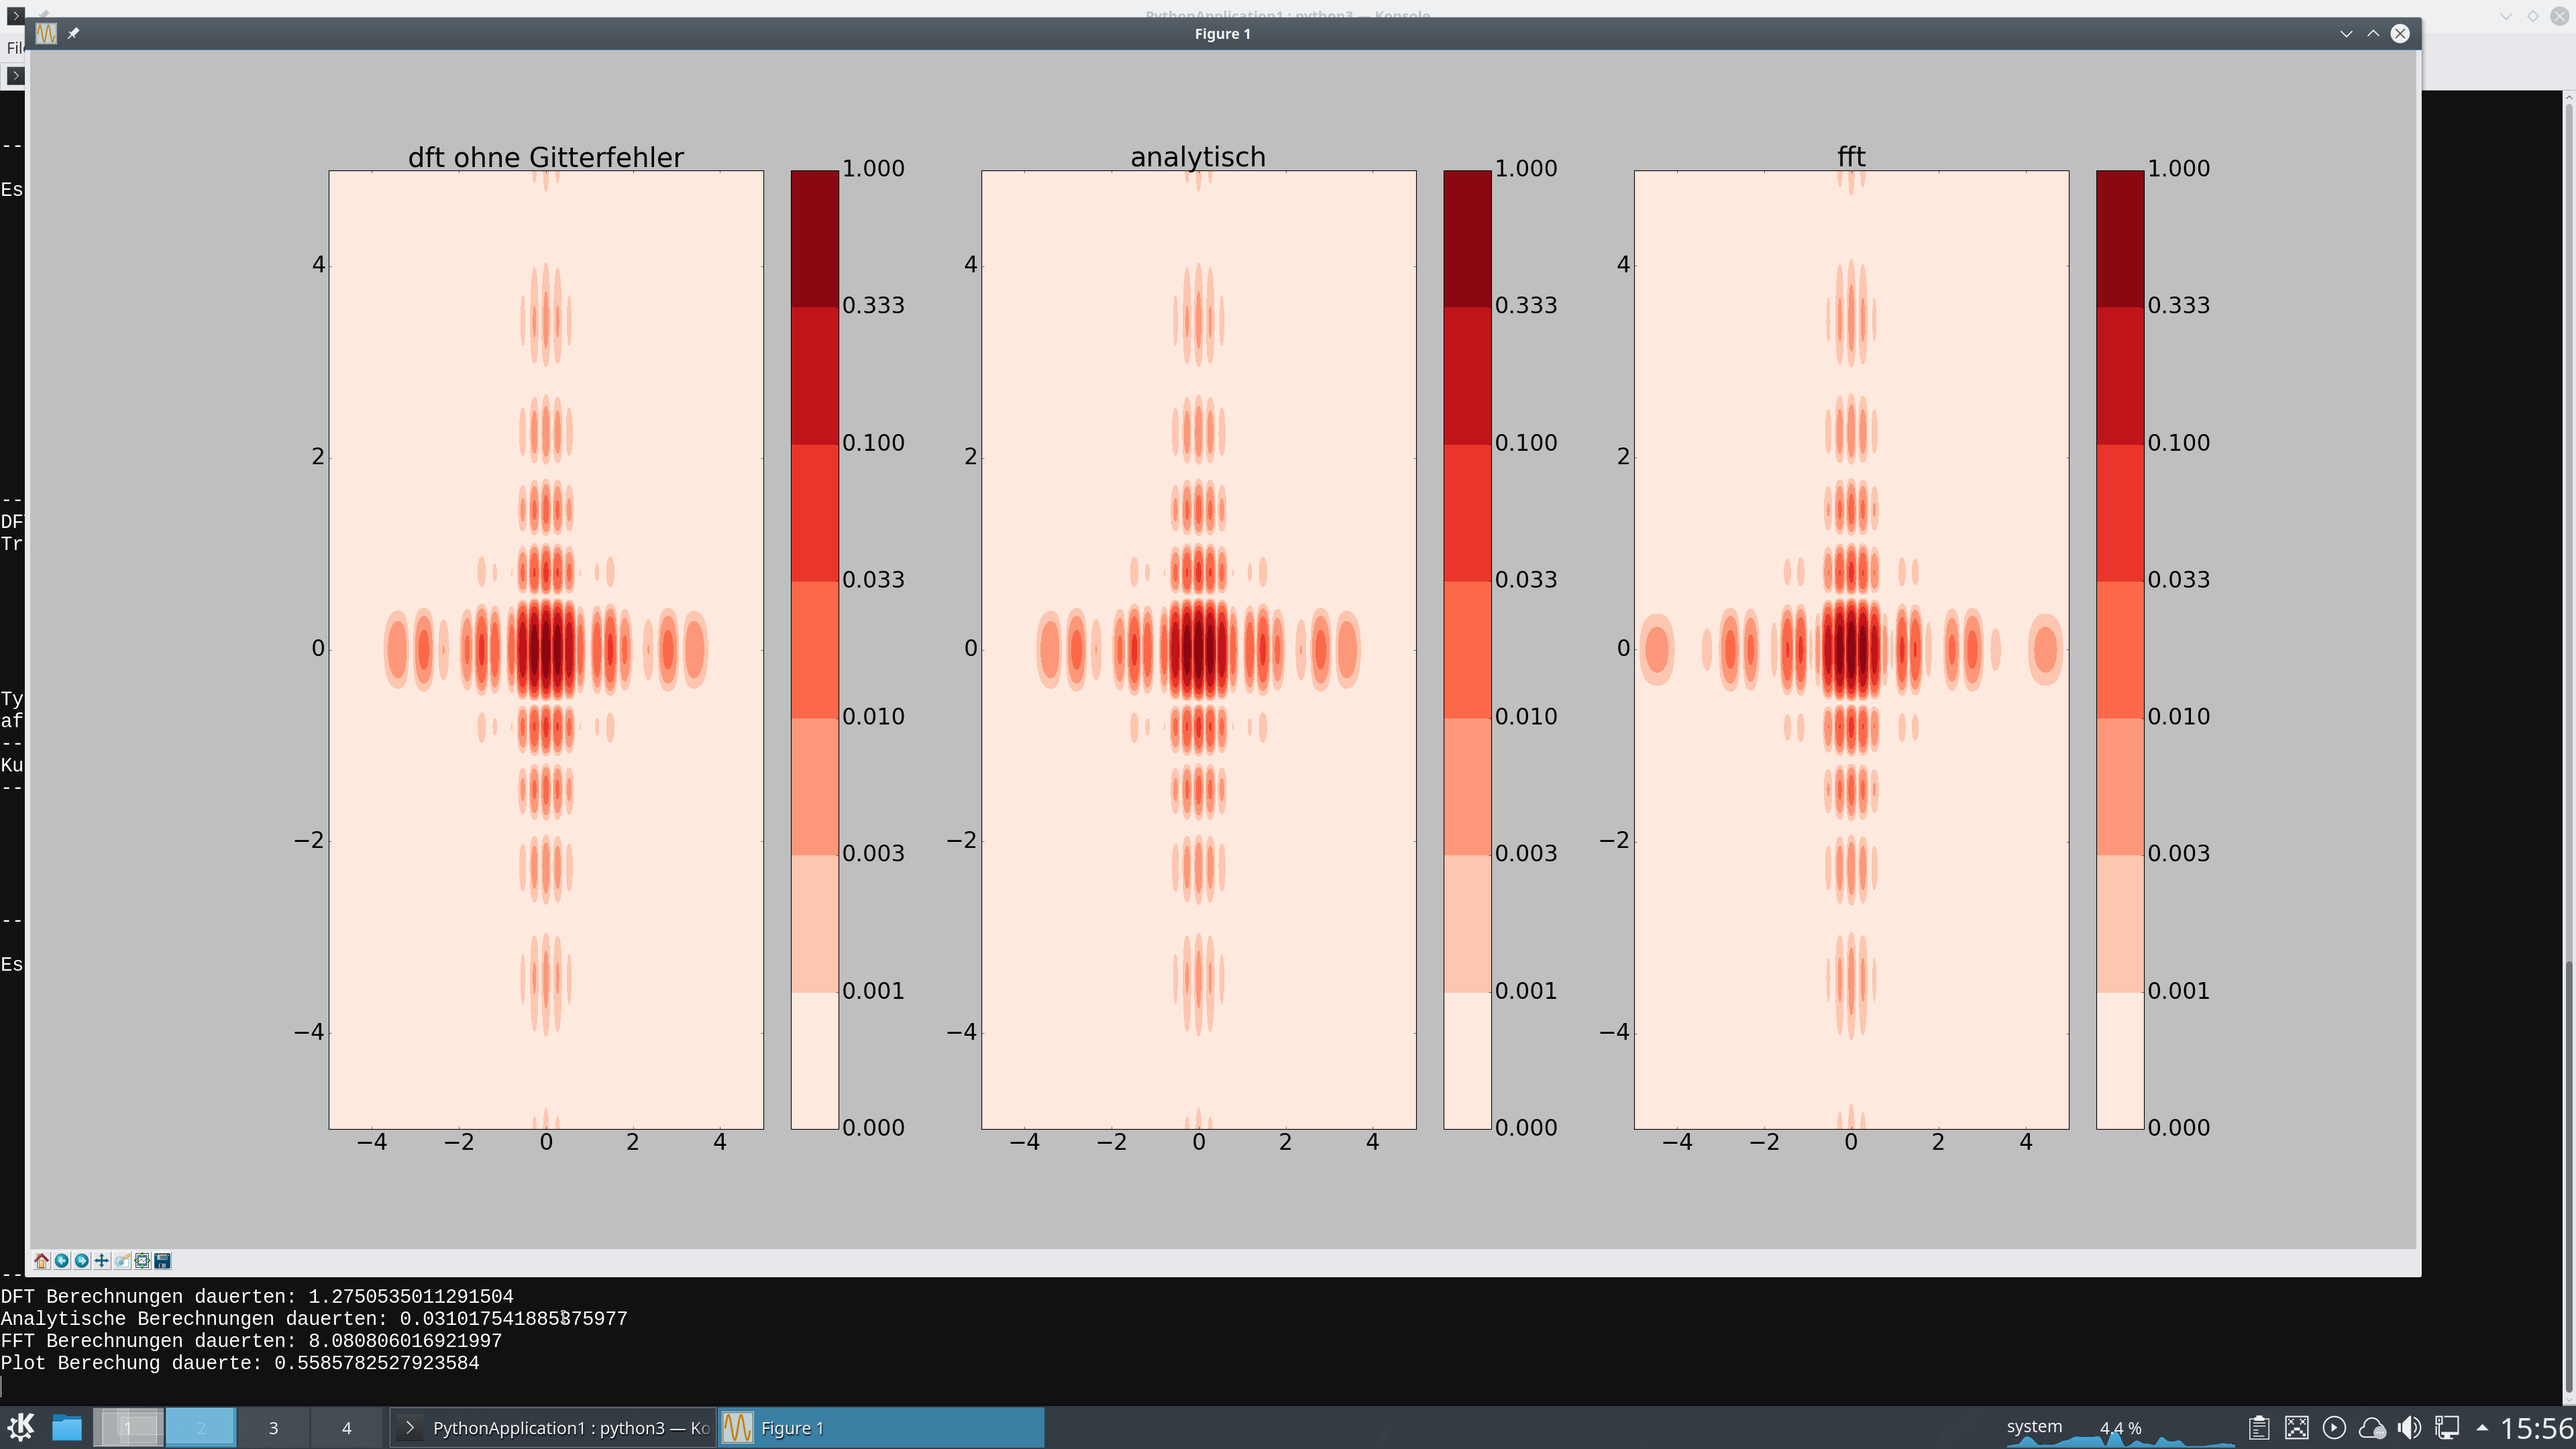
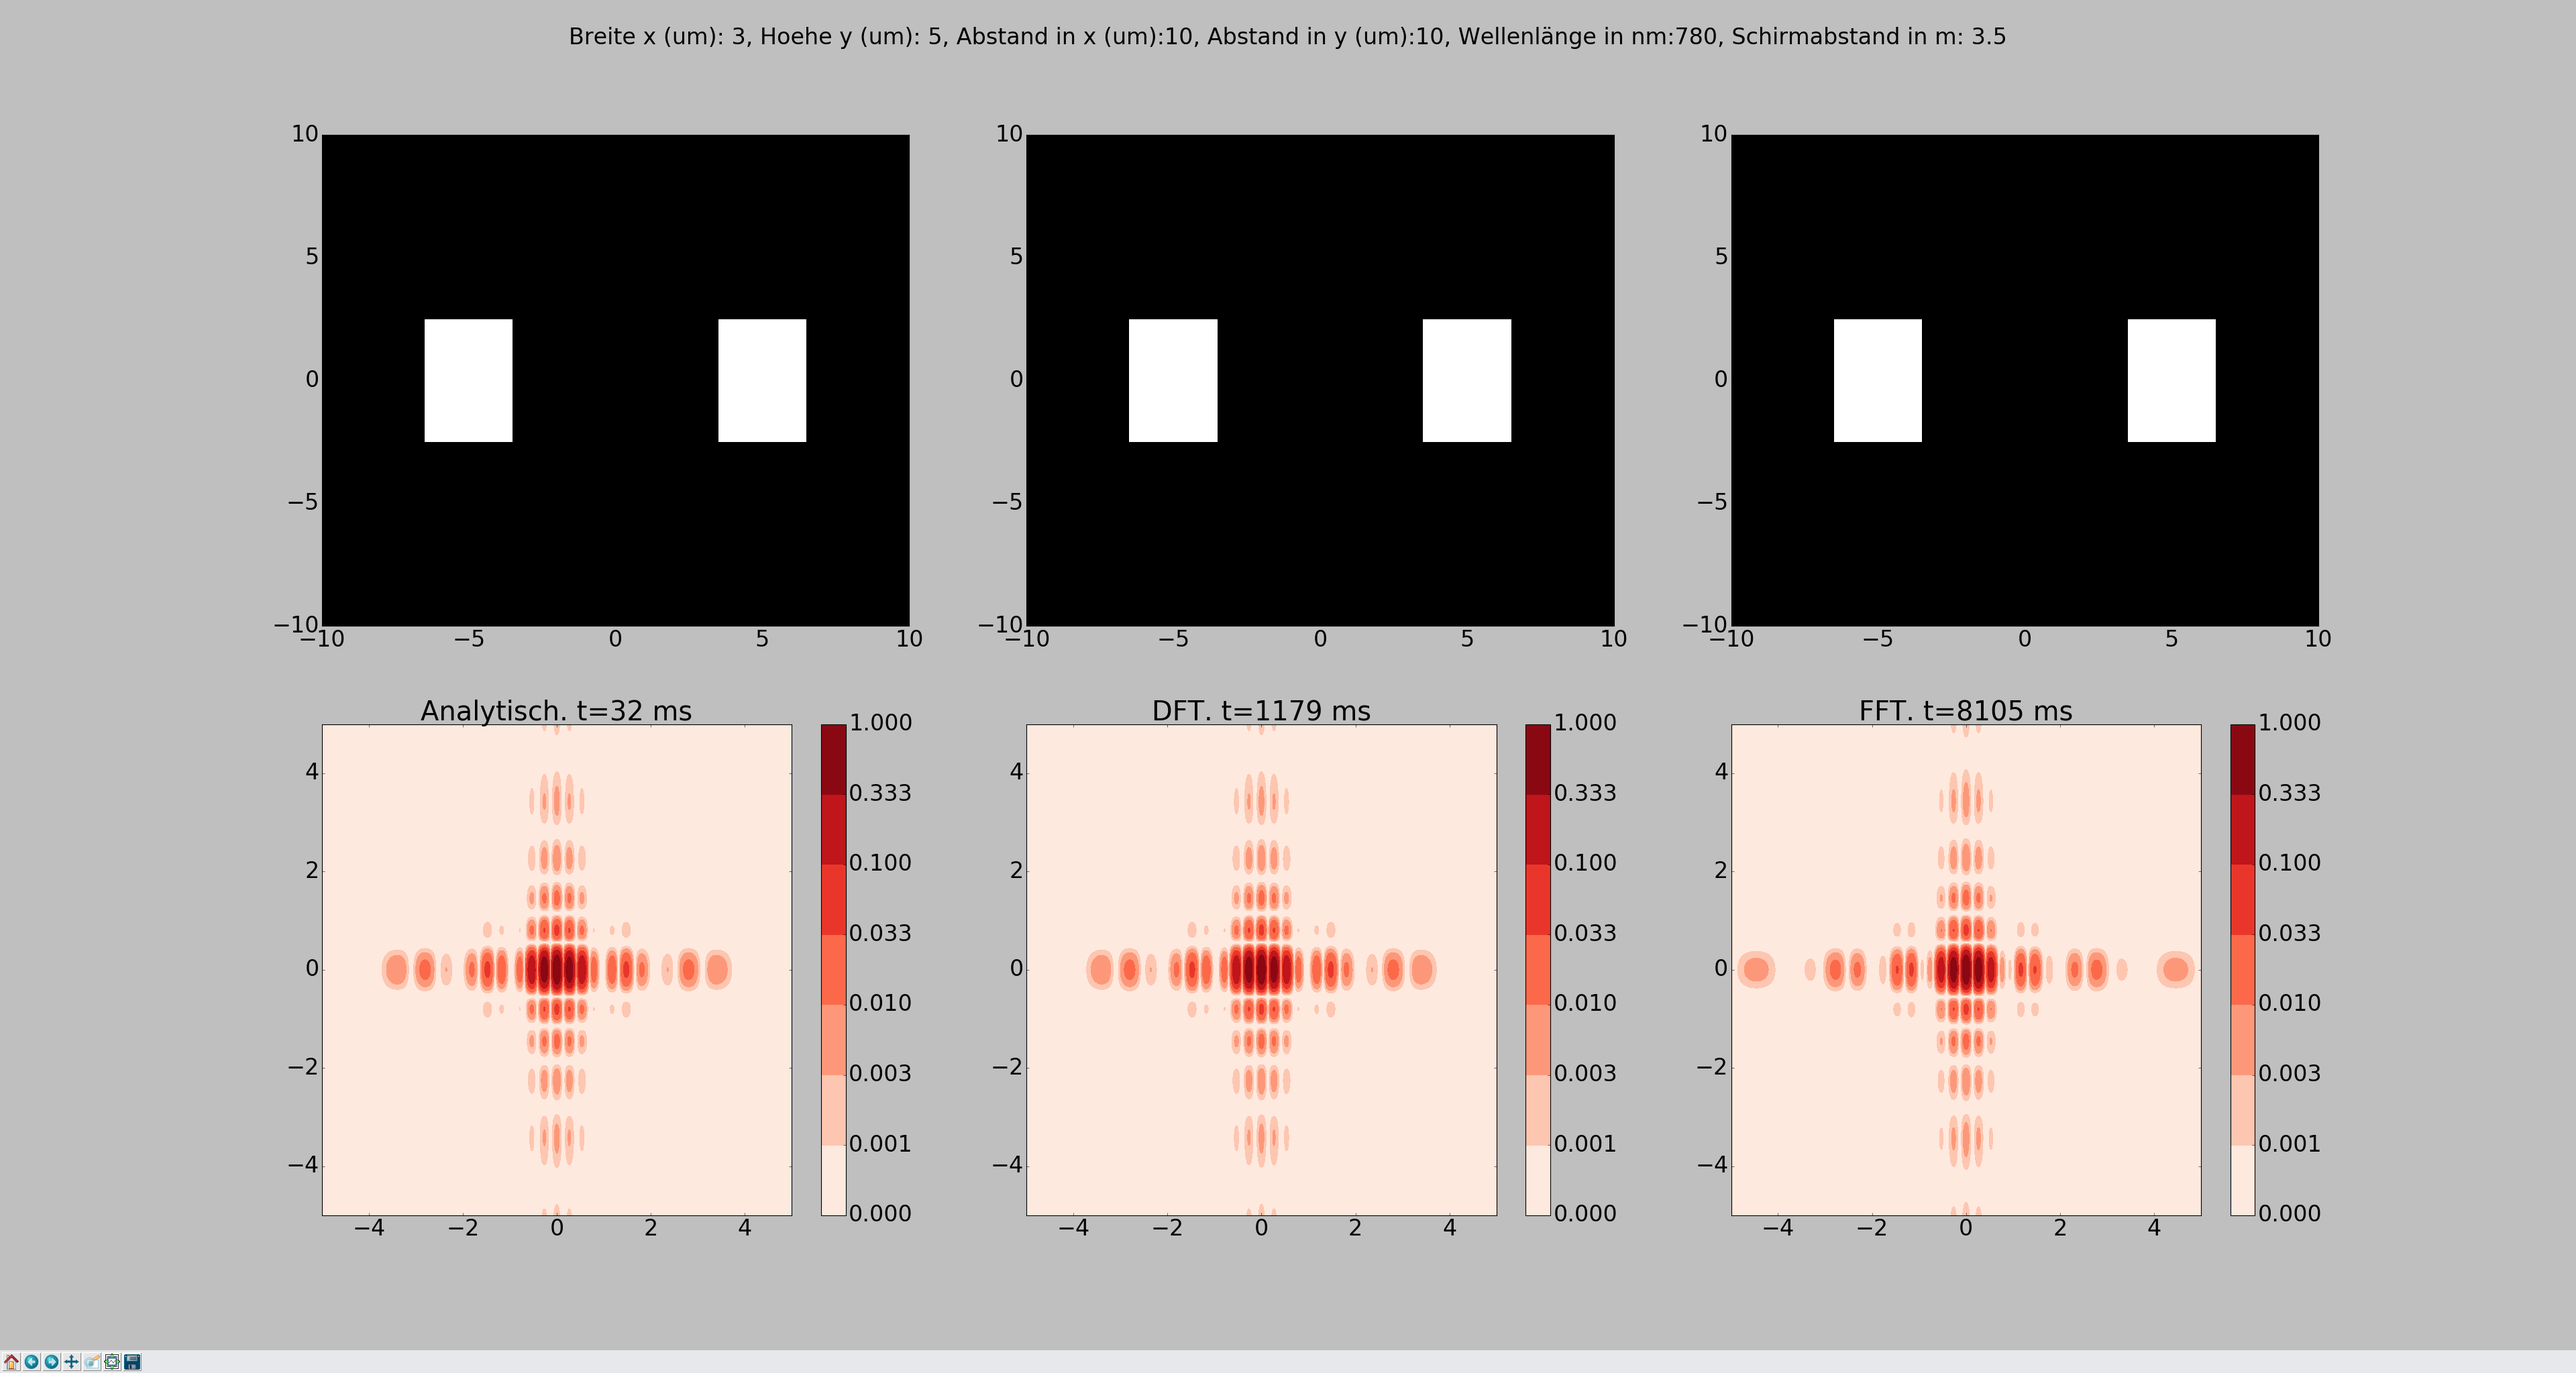
further plot opti

diff --git a/PythonGitter/PythonApplication1/PythonApplication1.py b/PythonGitter/PythonApplication1/PythonApplication1.py
@@ -837,7 +837,8 @@ def Main_Default(nx,ny,ax,ay,dx,dy,errortype,error_matrix,wl,zs):
 	plt.subplot2grid((2, 3), (1, 2)).set_title("FFT. t=" +total_time_fft)
 	plt.contourf(XX,YY,intensity_fft,levels=levels_screen,cmap=cmap_nonlin)
 	plt.colorbar()
-	  
+	
+	plt.suptitle('Breite x (um): '+ str(round(ax*1e6)) + ', Hoehe y (um): '+str(round(ay*1e6)) + ', Abstand in x (um):' + str(round(dx*1e6)) + ', Abstand in y (um):' + str(round(dy*1e6)) + ', Wellenlänge in nm:' + str(round(wl*1e9))  + ', Schirmabstand in m: ' + str(zs))  
 	plt.show()
 	
 
